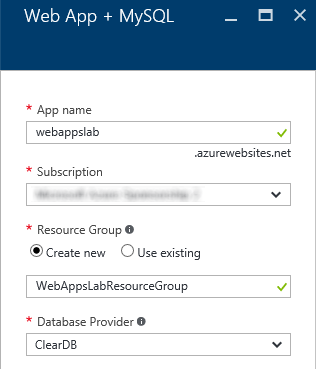
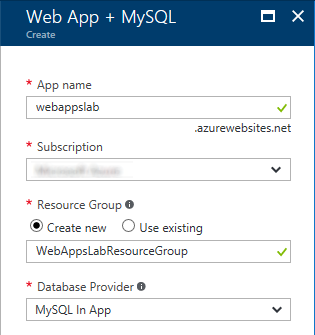
Updated Web Apps lab to remove ClearDB

diff --git a/Workshop/2. Web Apps/Azure Web Apps HOL.html b/Workshop/2. Web Apps/Azure Web Apps HOL.html
@@ -769,7 +769,7 @@ vertical-align:1px;
 <span class="pl-s1"></span><span class="pl-pse"><span class="pl-s1">?</span>&gt;</span></pre></div>
 </li>
 <li>
-<p>Repeat Steps 4 through 6 to add a file named <strong>database.php</strong> containing the following code to the project. This is the code used to interact with the MySQL database. Observe that the database connection string isn't embedded in the code, but is instead retrieved from an environment variable named <em>MYSQLCONNSTR_defaultConnection</em>. The value of this approach will be explained in the next exercise.</p>
+<p>Repeat Steps 4 through 6 to add a file named <strong>database.php</strong> containing the following code to the project. This is the code used to interact with the MySQL database. Observe that the database connection string isn't embedded in the code, but is instead retrieved from an environment variable named <code>MYSQLCONNSTR_localdb</code>. The purpose of this environment variable — and the manner in which it is initialized — is explained at the end of the next exercise.</p>
 <div class="highlight highlight-text-html-php"><pre><span class="pl-pse">&lt;?php</span><span class="pl-s1"></span>
 <span class="pl-s1">    <span class="pl-k">class</span> <span class="pl-en">Database</span> {</span>
 <span class="pl-s1"></span>
@@ -778,7 +778,7 @@ vertical-align:1px;
 <span class="pl-s1">        <span class="pl-k">public</span> <span class="pl-k">function</span> <span class="pl-c1">__construct</span>() {</span>
 <span class="pl-s1">            <span class="pl-c"><span class="pl-c">//</span> Notice that private connection information is *NOT* part of the source</span></span>
 <span class="pl-s1">            <span class="pl-c"><span class="pl-c">//</span> and therefore does not end up in public repos, etc.</span></span>
-<span class="pl-s1">            <span class="pl-smi">$connectionString</span> <span class="pl-k">=</span> <span class="pl-c1">getenv</span>(<span class="pl-s"><span class="pl-pds">"</span>MYSQLCONNSTR_defaultConnection<span class="pl-pds">"</span></span>);</span>
+<span class="pl-s1">            <span class="pl-smi">$connectionString</span> <span class="pl-k">=</span> <span class="pl-c1">getenv</span>(<span class="pl-s"><span class="pl-pds">"</span>MYSQLCONNSTR_localdb<span class="pl-pds">"</span></span>);</span>
 <span class="pl-s1">            <span class="pl-smi">$varsString</span> <span class="pl-k">=</span> <span class="pl-c1">str_replace</span>(<span class="pl-s"><span class="pl-pds">"</span>;<span class="pl-pds">"</span></span>,<span class="pl-s"><span class="pl-pds">"</span>&amp;<span class="pl-pds">"</span></span>, <span class="pl-smi">$connectionString</span>);</span>
 <span class="pl-s1">            <span class="pl-c1">parse_str</span>(<span class="pl-smi">$varsString</span>);</span>
 <span class="pl-s1"></span>
@@ -944,7 +944,7 @@ vertical-align:1px;
 <p><em>Creating a Web App with MySQL</em></p>
 </li>
 <li>
-<p>Enter a name for your Web app in the <strong>App name</strong> field. <em>This name must be unique within Azure, so make sure a green check mark appears next to it</em>. Select <strong>Create new</strong> under <strong>Resource Group</strong> and enter the resource-group name "WebAppsLabResourceGroup" (without quotation marks). Then select <strong>ClearDB</strong> as the <strong>Database Provider</strong>.</p>
+<p>Enter a name for your Web app in the <strong>App name</strong> field. <em>This name must be unique within Azure, so make sure a green check mark appears next to it</em>. Select <strong>Create new</strong> under <strong>Resource Group</strong> and enter the resource-group name "WebAppsLabResourceGroup" (without quotation marks). Then select <strong>MySQL In App</strong> as the <strong>Database Provider</strong>.</p>
 <blockquote>
 <p>Resource groups are a powerful construct for grouping resources such as storage accounts, databases, and virtual machines together so they can be managed as a unit. Deleting a resource group deletes everything inside it and prevents you from having to delete those resources one by one.</p>
 </blockquote>
@@ -952,20 +952,9 @@ vertical-align:1px;
 <p><em>Configuring the Web App</em></p>
 </li>
 <li>
-<p>Click <strong>App Service plan/location</strong>, and then click <strong>Create New</strong> to create a new App Service plan for your Web app. In the "App Service plan" blade, enter "WebAppsLabServicePlan" (without quotation marks) as the service-plan name and select the location nearest you. Then click <strong>Pricing tier</strong> and select the <strong>F1 Free</strong> tier. (You will have to click <strong>View all</strong> in the "Choose your pricing tier" blade and scroll to the bottom to see the <strong>F1 Free</strong> tier.) Click <strong>Select</strong> to finalize your tier selection, and then click <strong>OK</strong> in the "App Service plan" blade to create the new service plan.</p>
+<p>Click <strong>App Service plan/location</strong>, and then click <strong>Create New</strong> to create a new App Service plan for your Web app. In the "New App Service plan" blade, enter "WebAppsLabServicePlan" (without quotation marks) as the service-plan name and select the location nearest you. Then click <strong>Pricing tier</strong> and select the <strong>F1 Free</strong> tier. Click <strong>Select</strong> to finalize your tier selection, and then click <strong>OK</strong> in the "New App Service plan" blade to create the new service plan.</p>
 <p><a href="Images/web-app-parameters-2.png" target="_blank"><img src="Images/web-app-parameters-2.png" alt="Creating an App Service plan" style="max-width:100%;"></a></p>
 <p><em>Creating an App Service plan</em></p>
-</li>
-<li>
-<p>Click <strong>Database</strong> in the "Web App + MySQL" blade, and then click <strong>Create New</strong> to create a new MySQL database to go with your Web app. Enter "webappslabdb" (without quotation marks) for the <strong>Database Name</strong>. Set <strong>Database Type</strong> to <strong>Shared</strong> and select the location nearest you. Then click <strong>Pricing Tier</strong>, select the <strong>Mercury</strong> tier, and click <strong>Select</strong> at the bottom of the blade.</p>
-<p><a href="Images/web-app-parameters-3.png" target="_blank"><img src="Images/web-app-parameters-3.png" alt="Creating a MySQL database" style="max-width:100%;"></a></p>
-<p><em>Creating a MySQL database</em></p>
-</li>
-<li>
-<p>Click <strong>Legal Terms</strong> in the "New MySQL Database" blade. Review the legal terms and click <strong>Purchase</strong> at the bottom of the "Purchase" blade. Finish up by clicking <strong>OK</strong> at the bottom of the "New MySQL Database" blade.</p>
-<blockquote>
-<p>Nothing is actually being purchased since you selected the Mercury database tier, which is free. In order to provision the MySQL database for you, Azure requires that you acknowledge the terms of use.</p>
-</blockquote>
 </li>
 <li>
 <p>Check <strong>Pin to Dashboard</strong> at the bottom of the "Web App + MySQL" blade, and then click the <strong>Create</strong> button to create your Web app.</p>
@@ -973,7 +962,7 @@ vertical-align:1px;
 <p><em>Creating the Web App</em></p>
 </li>
 <li>
-<p>Once the Web App has been created (it usually takes about one minute), click the tile that was created for it on the dashboard.</p>
+<p>Once the Web App has been created (it usually takes about one minute), click the tile that was created for it on the dashboard if the blade for the Web App doesn't open automatically.</p>
 </li>
 <li>
 <p>Click the Web site URL to browse to the placeholder page for your new Web site.</p>
@@ -985,27 +974,8 @@ vertical-align:1px;
 <p><a href="Images/placeholder-page.png" target="_blank"><img src="Images/placeholder-page.png" alt="The Web site's temporary home page" style="max-width:100%;"></a></p>
 <p><em>The Web site's temporary home page</em></p>
 </li>
-<li>
-<p>Click <strong>Application settings</strong> in the blade for the Web app.</p>
-<p><a href="Images/application-settings.png" target="_blank"><img src="Images/application-settings.png" alt="Viewing application settings" style="max-width:100%;"></a></p>
-<p><em>Viewing application settings</em></p>
-</li>
-<li>
-<p>Scroll down to the "App settings" and "Connection strings" sections. These sections allow you to define key-value pairs that the app can access at runtime. Specifying values such as these in the portal rather than embedding them in your code makes it easier to run the app in different environments and in different contexts, and also helps mitigate the risk of inadvertently uploading code containing database connection strings and other sensitive items to public source-code repositories.</p>
-<blockquote>
-<p>If you're curious about the <strong>Slot setting</strong> boxes, here's a quick explanation. In the Azure App Service, the <em>Basic</em>, <em>Standard</em>, and <em>Premium</em> pricing tiers tiers allow you to provision multiple deployment slots for a given Web App. You can use these slots in several ways, including setting up pre-production staging environments for testing code changes before putting them into production. The <strong>Slot setting</strong> boxes allow you to specify whether a setting or connection string applies to all deployment slots or only to a particular deployment slot.</p>
-</blockquote>
-</li>
-<li>
-<p>By default, connection strings are hidden for security reasons. Click <strong>Show connection string values</strong> to reveal them.</p>
-<p><a href="Images/provision-showconnectionstrings.png" target="_blank"><img src="Images/provision-showconnectionstrings.png" alt="Showing connection string values" style="max-width:100%;"></a></p>
-<p><em>Showing connection string values</em></p>
-</li>
-<li>
-<p>Examine the <strong>defaultConnection</strong> value. It was automatically created when your Web App and MySQL database were provisioned. This is the value your application uses to connect to the MySQL database. It includes the server address (<em>Data Source</em>) for the database, the database name, and the user credentials for connecting to the database.</p>
-</li>
 </ol>
-<p>Most platforms can access connection strings and app settings as environment variables. .NET applications can access them as if they were part of the application's web.config file. The PHP code that you added in <a href="#Exercise1">Exercise 1</a> retrieves the default connection string by calling <code>getenv("MYSQLCONNSTR_defaultConnection");</code> You can find additional information about the conventions used to access these variables <a href="https://azure.microsoft.com/en-us/blog/windows-azure-web-sites-how-application-strings-and-connection-strings-work/">here</a>.</p>
+<p>When the app was provisioned, an in-app SQL database was provisioned for it, too. The PHP code that you added in <a href="#Exercise1">Exercise 1</a> retrieves a connection string for the database by calling <code>getenv("MYSQLCONNSTR_localdb");</code>. The environment variable <code>MYSQLCONNSTR_localdb</code> is created as part of the provisioning process and is created specifically for the purpose of connecting to in-app SQL databases.</p>
 <p><a name="Exercise3"></a></p>
 <h2>Exercise 3: Deploy the Web site</h2>
 <p>Now it is time to copy the files that comprise your Web site to the Azure Web App. In this exercise, you will publish your Web site using FTP.</p>

diff --git a/Workshop/2. Web Apps/solutions/database.php b/Workshop/2. Web Apps/solutions/database.php
@@ -6,7 +6,7 @@
         public function __construct() {
             // Notice that private connection information is *NOT* part of the source
             // and therefore does not end up in public repos, etc.
-            $connectionString = getenv("MYSQLCONNSTR_defaultConnection");
+            $connectionString = getenv("MYSQLCONNSTR_localdb");
             $varsString = str_replace(";","&", $connectionString);
             parse_str($varsString);
 

diff --git a/Workshop/2. Web Apps/Azure Web Apps HOL.md b/Workshop/2. Web Apps/Azure Web Apps HOL.md
@@ -317,7 +317,7 @@ In this exercise, you will use [Visual Studio Code](https://code.visualstudio.co
 	?>
     ```
 
-1. Repeat Steps 4 through 6 to add a file named **database.php** containing the following code to the project. This is the code used to interact with the MySQL database. Observe that the database connection string isn't embedded in the code, but is instead retrieved from an environment variable named *MYSQLCONNSTR_defaultConnection*. The value of this approach will be explained in the next exercise.
+1. Repeat Steps 4 through 6 to add a file named **database.php** containing the following code to the project. This is the code used to interact with the MySQL database. Observe that the database connection string isn't embedded in the code, but is instead retrieved from an environment variable named ```MYSQLCONNSTR_localdb```. The purpose of this environment variable — and the manner in which it is initialized — is explained at the end of the next exercise.
 
     ```php
     <?php
@@ -328,7 +328,7 @@ In this exercise, you will use [Visual Studio Code](https://code.visualstudio.co
             public function __construct() {
                 // Notice that private connection information is *NOT* part of the source
                 // and therefore does not end up in public repos, etc.
-                $connectionString = getenv("MYSQLCONNSTR_defaultConnection");
+                $connectionString = getenv("MYSQLCONNSTR_localdb");
                 $varsString = str_replace(";","&", $connectionString);
                 parse_str($varsString);
     
@@ -503,7 +503,7 @@ There are several ways to provision an Azure Web App. In this exercise, you will
 
     _Creating a Web App with MySQL_
 
-1. Enter a name for your Web app in the **App name** field. *This name must be unique within Azure, so make sure a green check mark appears next to it*. Select **Create new** under **Resource Group** and enter the resource-group name "WebAppsLabResourceGroup" (without quotation marks). Then select **ClearDB** as the **Database Provider**.
+1. Enter a name for your Web app in the **App name** field. *This name must be unique within Azure, so make sure a green check mark appears next to it*. Select **Create new** under **Resource Group** and enter the resource-group name "WebAppsLabResourceGroup" (without quotation marks). Then select **MySQL In App** as the **Database Provider**.
 
 	> Resource groups are a powerful construct for grouping resources such as storage accounts, databases, and virtual machines together so they can be managed as a unit. Deleting a resource group deletes everything inside it and prevents you from having to delete those resources one by one.
 
@@ -511,21 +511,11 @@ There are several ways to provision an Azure Web App. In this exercise, you will
 
     _Configuring the Web App_
 
-1. Click **App Service plan/location**, and then click **Create New** to create a new App Service plan for your Web app. In the "App Service plan" blade, enter "WebAppsLabServicePlan" (without quotation marks) as the service-plan name and select the location nearest you. Then click **Pricing tier** and select the **F1 Free** tier. (You will have to click **View all** in the "Choose your pricing tier" blade and scroll to the bottom to see the **F1 Free** tier.) Click **Select** to finalize your tier selection, and then click **OK** in the "App Service plan" blade to create the new service plan.
+1. Click **App Service plan/location**, and then click **Create New** to create a new App Service plan for your Web app. In the "New App Service plan" blade, enter "WebAppsLabServicePlan" (without quotation marks) as the service-plan name and select the location nearest you. Then click **Pricing tier** and select the **F1 Free** tier. Click **Select** to finalize your tier selection, and then click **OK** in the "New App Service plan" blade to create the new service plan.
 
     ![Creating an App Service plan](Images/web-app-parameters-2.png)
 
     _Creating an App Service plan_
-
-1. Click **Database** in the "Web App + MySQL" blade, and then click **Create New** to create a new MySQL database to go with your Web app. Enter "webappslabdb" (without quotation marks) for the **Database Name**. Set **Database Type** to **Shared** and select the location nearest you. Then click **Pricing Tier**, select the **Mercury** tier, and click **Select** at the bottom of the blade.
-
-    ![Creating a MySQL database](Images/web-app-parameters-3.png)
-
-    _Creating a MySQL database_
-
-1. Click **Legal Terms** in the "New MySQL Database" blade. Review the legal terms and click **Purchase** at the bottom of the "Purchase" blade. Finish up by clicking **OK** at the bottom of the "New MySQL Database" blade.
-
-	> Nothing is actually being purchased since you selected the Mercury database tier, which is free. In order to provision the MySQL database for you, Azure requires that you acknowledge the terms of use.
 
 1. Check **Pin to Dashboard** at the bottom of the "Web App + MySQL" blade, and then click the **Create** button to create your Web app.
 
@@ -533,7 +523,7 @@ There are several ways to provision an Azure Web App. In this exercise, you will
 
     _Creating the Web App_
     
-1. Once the Web App has been created (it usually takes about one minute), click the tile that was created for it on the dashboard.
+1. Once the Web App has been created (it usually takes about one minute), click the tile that was created for it on the dashboard if the blade for the Web App doesn't open automatically.
 
 1. Click the Web site URL to browse to the placeholder page for your new Web site. 
 
@@ -547,25 +537,7 @@ There are several ways to provision an Azure Web App. In this exercise, you will
 
     _The Web site's temporary home page_
 
-1. Click **Application settings** in the blade for the Web app.
-
-    ![Viewing application settings](Images/application-settings.png)
-
-    _Viewing application settings_
-    
-1. Scroll down to the "App settings" and "Connection strings" sections. These sections allow you to define key-value pairs that the app can access at runtime. Specifying values such as these in the portal rather than embedding them in your code makes it easier to run the app in different environments and in different contexts, and also helps mitigate the risk of inadvertently uploading code containing database connection strings and other sensitive items to public source-code repositories.
-
-    > If you're curious about the **Slot setting** boxes, here's a quick explanation. In the Azure App Service, the _Basic_, _Standard_, and _Premium_ pricing tiers tiers allow you to provision multiple deployment slots for a given Web App. You can use these slots in several ways, including setting up pre-production staging environments for testing code changes before putting them into production. The **Slot setting** boxes allow you to specify whether a setting or connection string applies to all deployment slots or only to a particular deployment slot.
-
-1. By default, connection strings are hidden for security reasons. Click **Show connection string values** to reveal them.
-
-    ![Showing connection string values](Images/provision-showconnectionstrings.png)
-
-    _Showing connection string values_
-   
-1. Examine the **defaultConnection** value. It was automatically created when your Web App and MySQL database were provisioned. This is the value your application uses to connect to the MySQL database. It includes the server address (_Data Source_) for the database, the database name, and the user credentials for connecting to the database.
-
-Most platforms can access connection strings and app settings as environment variables. .NET applications can access them as if they were part of the application's web.config file. The PHP code that you added in [Exercise 1](#Exercise1) retrieves the default connection string by calling `getenv("MYSQLCONNSTR_defaultConnection");` You can find additional information about the conventions used to access these variables [here](https://azure.microsoft.com/en-us/blog/windows-azure-web-sites-how-application-strings-and-connection-strings-work/).
+When the app was provisioned, an in-app SQL database was provisioned for it, too. The PHP code that you added in [Exercise 1](#Exercise1) retrieves a connection string for the database by calling ```getenv("MYSQLCONNSTR_localdb");```. The environment variable ```MYSQLCONNSTR_localdb``` is created as part of the provisioning process and is created specifically for the purpose of connecting to in-app SQL databases.
     
 <a name="Exercise3"></a>
 ## Exercise 3: Deploy the Web site
